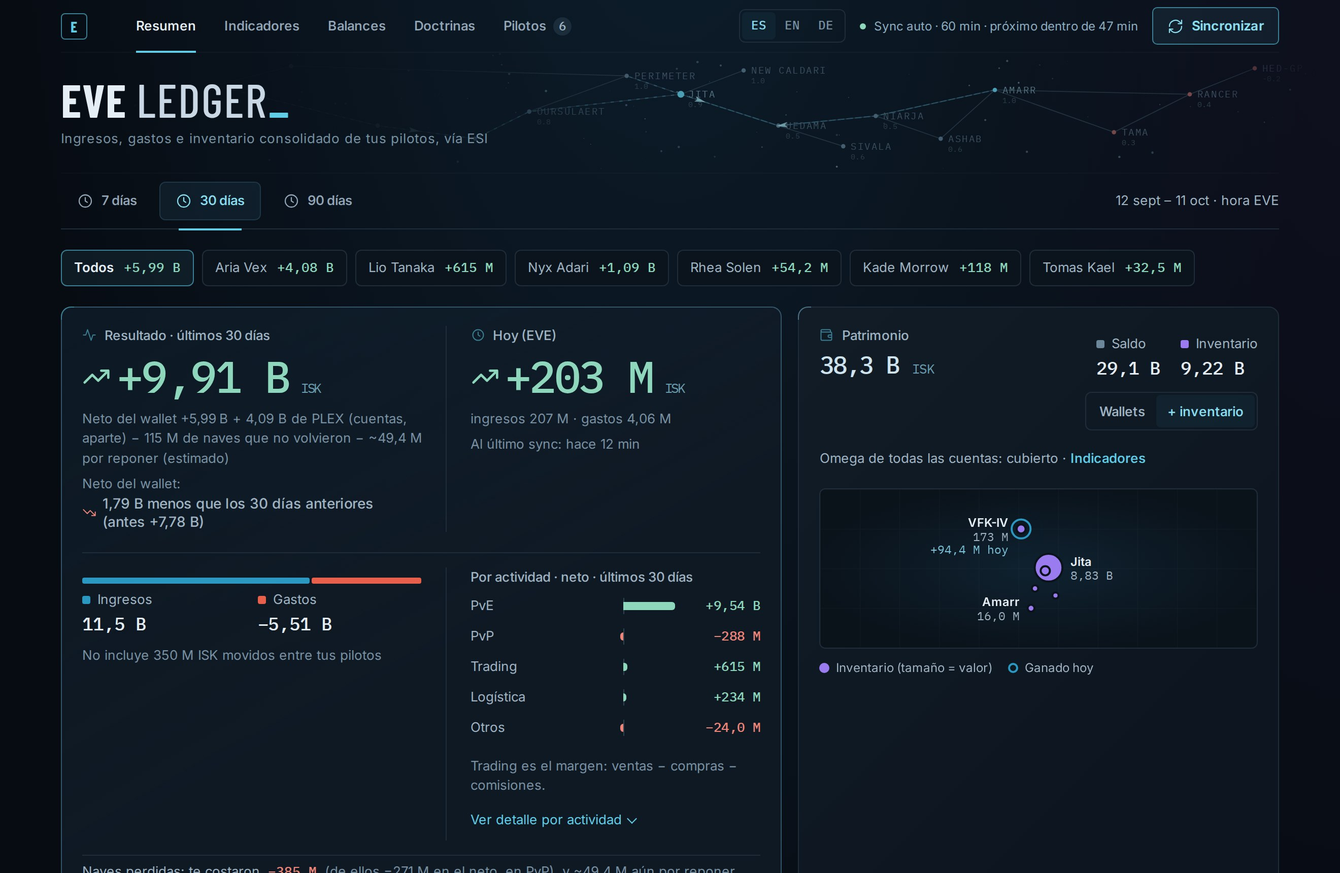
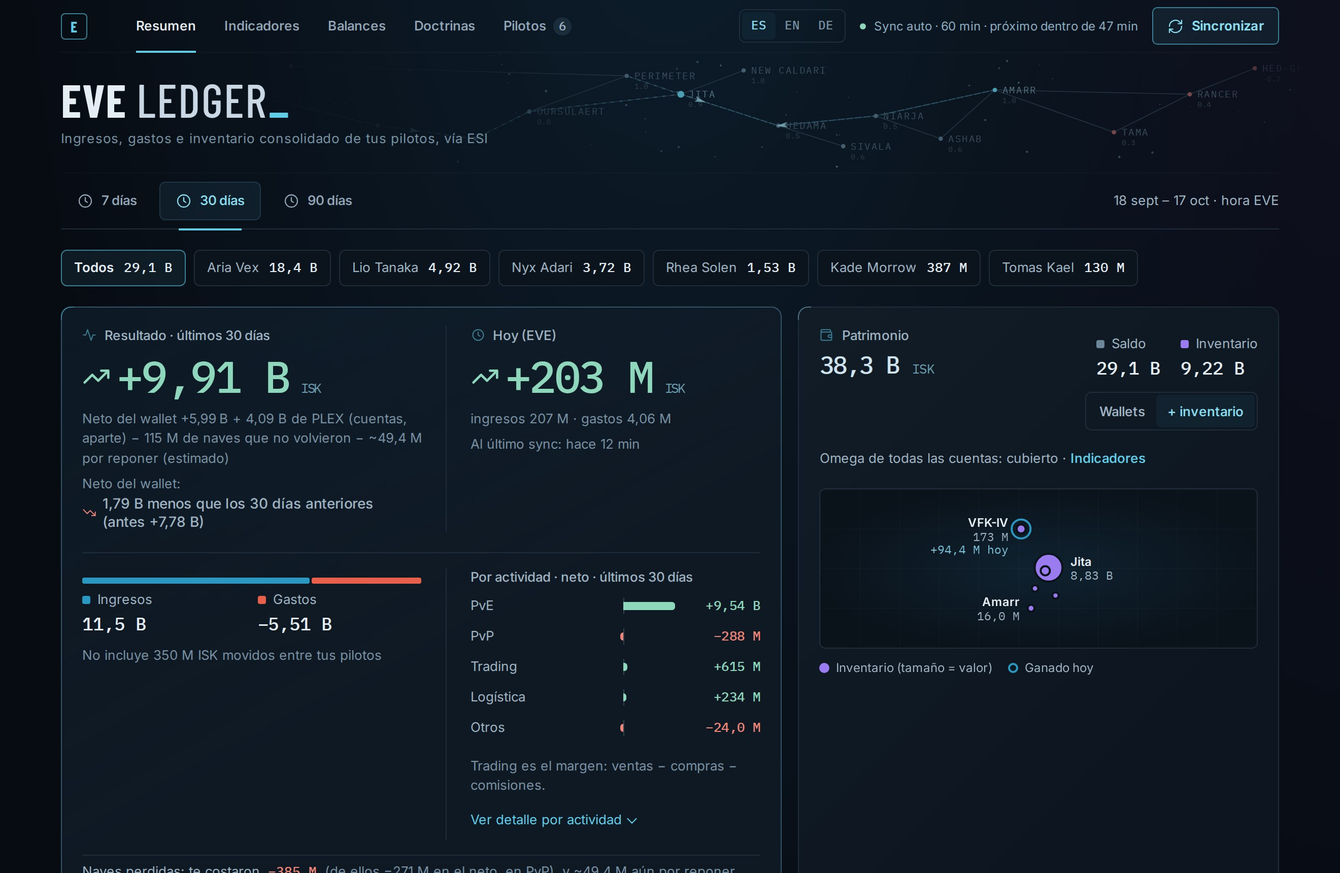
Summary: pilot chips show the wallet balance instead of the period net
The filter strip under the period tabs showed each pilot's net for the
period, which is already in the Net card and in the pilots table. It now
shows what each pilot has in the wallet (the ESI balance of the last sync,
or the journal's) and «Todos» the sum of the wallets, with no sign and no
green/red because it isn't a net. A pilot without a sync keeps «—» and
stale data is greyed with its age, as before. Titles and aria-labels say
«saldo»; the e2e suite checks the chips against /summary; the README and
brochure dashboard screenshots are regenerated with the demo data.

Claude-Session: https://claude.ai/code/session_01M8WtF2MrXeJVUAxf2xqCAQ

diff --git a/apps/web/src/lib/i18n.ts b/apps/web/src/lib/i18n.ts
@@ -475,7 +475,8 @@ const es = {
   noInventory: 'Sin inventario sincronizado',
   filterByPilot: 'Filtrar por piloto',
   allPilots: 'Todos',
-  allPilotsTitle: (v: string, days: number) => `Todos tus pilotos: neto ${v} en ${days} días`,
+  // The pilot strip shows the wallet balances (the period net is in the Net card and the pilots table)
+  allPilotsTitle: (v: string) => `Todos tus pilotos: saldo de los wallets ${v}`,
   netPeriodPilot: (name: string, days: number) => `Neto de ${name} · últimos ${days} días`,
   summaryH1Pilot: (name: string, days: number) => `Resumen de ${name}: últimos ${days} días`,
   // Result: the wallet net minus the net worth of lost ships that didn't come back or are still to replace
@@ -491,7 +492,7 @@ const es = {
   resultCompareOf: 'Neto del wallet:',
   resultCompareOfPilot: 'Neto en juego:',
   viewLedger: (name: string) => `Ver el ledger de ${name}`,
-  pilotNetTitle: (name: string, v: string, days: number) => `${name}: neto ${v} en ${days} días`,
+  pilotBalanceTitle: (name: string, v: string | null) => (v === null ? `${name}: sin primer sync` : `${name}: saldo del wallet ${v}`),
   noSyncSince: (ago: string) => ` · sin sync ${ago}`,
   dailyFlow: 'Flujo diario',
   byActivity: 'Por actividad',
@@ -647,8 +648,8 @@ const es = {
   invPlus: '+ inventario',
   omegaLine: (v: string) => `Omega de todas las cuentas: te faltan ${v}`,
   omegaLineCovered: 'Omega de todas las cuentas: cubierto',
-  chipLabel: (name: string, net: string | null, ago: string | null) =>
-    net === null ? `${name}, sin primer sync` : `${name}, ${net}${ago ? `, sin sync ${ago}` : ''}`,
+  chipLabel: (name: string, balance: string | null, ago: string | null) =>
+    balance === null ? `${name}, sin primer sync` : `${name}, saldo ${balance}${ago ? `, sin sync ${ago}` : ''}`,
   valuablePlex: 'Valorado con la media de ESI, también el PLEX (Indicadores usa su venta más baja).',
   notePrices: (ago: string) => ` (actualizado ${ago})`,
   noteBpc: '; las copias de blueprint cuentan como 0',
@@ -1300,7 +1301,7 @@ const en: Messages = {
   noInventory: 'No assets synced',
   filterByPilot: 'Filter by pilot',
   allPilots: 'All',
-  allPilotsTitle: (v, days) => `All your pilots: net ${v} in ${days} days`,
+  allPilotsTitle: (v) => `All your pilots: ${v} in the wallets`,
   netPeriodPilot: (name, days) => `${name} net · last ${days} days`,
   summaryH1Pilot: (name, days) => `${name}: overview of the last ${days} days`,
   result: 'Result',
@@ -1314,7 +1315,7 @@ const en: Messages = {
   resultCompareOf: 'Wallet net:',
   resultCompareOfPilot: 'In-game net:',
   viewLedger: (name) => `View ${name}'s ledger`,
-  pilotNetTitle: (name, v, days) => `${name}: net ${v} in ${days} days`,
+  pilotBalanceTitle: (name, v) => (v === null ? `${name}: no first sync` : `${name}: wallet balance ${v}`),
   noSyncSince: (ago) => ` · not synced ${ago}`,
   dailyFlow: 'Daily flow',
   byActivity: 'By activity',
@@ -1466,8 +1467,8 @@ const en: Messages = {
   invPlus: '+ assets',
   omegaLine: (v) => `Omega for all accounts: ${v} short`,
   omegaLineCovered: 'Omega for all accounts: covered',
-  chipLabel: (name, net, ago) =>
-    net === null ? `${name}, no first sync` : `${name}, ${net}${ago ? `, not synced ${ago}` : ''}`,
+  chipLabel: (name, balance, ago) =>
+    balance === null ? `${name}, no first sync` : `${name}, balance ${balance}${ago ? `, not synced ${ago}` : ''}`,
   valuablePlex: 'Valued at the ESI average, PLEX included (Indicators uses its lowest sell price).',
   notePrices: (ago) => ` (updated ${ago})`,
   noteBpc: '; blueprint copies count as 0',
@@ -2117,7 +2118,7 @@ const de: Messages = {
   noInventory: 'Kein Inventar synchronisiert',
   filterByPilot: 'Nach Pilot filtern',
   allPilots: 'Alle',
-  allPilotsTitle: (v, days) => `Alle deine Piloten: Netto ${v} in ${days} Tagen`,
+  allPilotsTitle: (v) => `Alle deine Piloten: Guthaben der Wallets ${v}`,
   netPeriodPilot: (name, days) => `Netto ${name} · letzte ${days} Tage`,
   summaryH1Pilot: (name, days) => `${name}: Übersicht der letzten ${days} Tage`,
   result: 'Ergebnis',
@@ -2131,7 +2132,7 @@ const de: Messages = {
   resultCompareOf: 'Wallet-Netto:',
   resultCompareOfPilot: 'Netto im Spiel:',
   viewLedger: (name) => `Ledger von ${name} anzeigen`,
-  pilotNetTitle: (name, v, days) => `${name}: netto ${v} in ${days} Tagen`,
+  pilotBalanceTitle: (name, v) => (v === null ? `${name}: noch kein erster Sync` : `${name}: Wallet-Guthaben ${v}`),
   noSyncSince: (ago) => ` · kein Sync ${ago}`,
   dailyFlow: 'Täglicher Fluss',
   byActivity: 'Nach Aktivität',
@@ -2283,8 +2284,8 @@ const de: Messages = {
   invPlus: '+ Inventar',
   omegaLine: (v) => `Omega für alle Accounts: es fehlen ${v}`,
   omegaLineCovered: 'Omega für alle Accounts: gedeckt',
-  chipLabel: (name, net, ago) =>
-    net === null ? `${name}, noch kein erster Sync` : `${name}, ${net}${ago ? `, kein Sync ${ago}` : ''}`,
+  chipLabel: (name, balance, ago) =>
+    balance === null ? `${name}, noch kein erster Sync` : `${name}, Guthaben ${balance}${ago ? `, kein Sync ${ago}` : ''}`,
   valuablePlex: 'Bewertet zum ESI-Durchschnitt, auch PLEX (Kennzahlen nutzt den niedrigsten Verkaufspreis).',
   notePrices: (ago) => ` (aktualisiert ${ago})`,
   noteBpc: '; Blaupausenkopien zählen als 0',

diff --git a/apps/web/e2e/flows.spec.ts b/apps/web/e2e/flows.spec.ts
@@ -135,6 +135,20 @@ test('el saldo es el del wallet de ESI y Balances concilia lo que el journal aú
   await expect(page.getByText(/va por delante del journal en Aria Vex/).first()).toBeAttached();
 });
 
+test('los chips de pilotos muestran el saldo del wallet, no el neto del período', async ({ page, request }) => {
+  const summary = await (await request.get(`${API_URL}/summary?days=30`)).json();
+  const aria = summary.characters.find((c: { id: number }) => c.id === PILOTS.aria.id);
+  const full = (v: number) => `${new Intl.NumberFormat('es', { minimumFractionDigits: 2, maximumFractionDigits: 2 }).format(v)} ISK`;
+  await page.goto('/?days=30');
+  const chip = page.locator('.pilot-strip a', { hasText: PILOTS.aria.name });
+  await expect(chip).toHaveAttribute('title', `${PILOTS.aria.name}: saldo del wallet ${full(aria.balance)}`);
+  await expect(chip).toHaveAttribute('aria-label', /^Aria Vex, saldo /);
+  // «Todos» is the sum of the wallets, and a pilot without a sync shows «—»
+  const all = summary.characters.reduce((n: number, c: { balance: number | null }) => n + (c.balance ?? 0), 0);
+  await expect(page.locator('.pilot-strip a').first()).toHaveAttribute('title', `Todos tus pilotos: saldo de los wallets ${full(all)}`);
+  await expect(page.locator('.pilot-strip a', { hasText: PILOTS.nyx.name }).locator('.pilot-balance')).toHaveText('—');
+});
+
 test('Descuentos: impuesto de corporación exacto y penalización de incursión estimada', async ({ page, request }) => {
   const { deductions: d } = await (await request.get(`${API_URL}/indicators`)).json();
   expect(d.byCorp[0].name).toBe('School of Applied Knowledge');

diff --git a/CLAUDE.md b/CLAUDE.md
@@ -32,12 +32,12 @@ Proyecto personal, corre solo en localhost. Responder siempre en español neutro
 - «Hoy» = desde las 00:00 EVE (UTC). La comparación con el período anterior solo se muestra si el historial lo cubre entero; los días anteriores al primer sync se muestran como «sin historial», no como cero.
 - Datos «desactualizados» cuando el último sync supera 2× el intervalo (2 h si el cron está apagado). El dashboard se recarga solo tras cada sync automático (`/status.json` en la web), pero solo si no tira la lectura (scroll arriba y ningún `<details>` abierto); si no, aparece el aviso «Hay datos nuevos · Actualizar». La frescura («Al último sync: hace 11 min», en ámbar si está vieja) va pegada a «Hoy», y bajo el filtro de pilotos una línea dice cuáles están sin sync reciente y por qué, con enlace a Pilotos.
 - Vinculación: `/auth/callback` no pinta HTML; redirige a `${WEB_URL}/pilotos?linked=ID` o `?error=denied|state|sso` (con `AUTH_DONE_PAGE=1`, que pone la app de escritorio, a `${WEB_URL}/vinculado?…`: página suelta, sin el dashboard, «PILOTO VINCULADO · Puedes cerrar esta página» o el error, en el idioma del navegador (`getRequestLang`); en éxito intenta `window.close()`, que el navegador solo permite si la pestaña la abrió un script). `GET /characters` redirige a esa página si el cliente pide `text/html` y devuelve JSON (con `missingScopes` y `lastError`) al resto. La web tiene layout común (`src/layouts/Base.astro`) con secciones Resumen / Indicadores / Balances / Doctrinas / Pilotos (por debajo de 1280 px van en una segunda fila de la cabecera, porque con cinco secciones el estado del sync y Sincronizar se salían por la derecha entre 751 y ~1180 px; en móvil sin el contador de pilotos y con 7 px de aire, para que quepan las cinco a 390 px; si no caben, la fila se desliza); las cifras abreviadas de ISK llevan espacio duro antes de la unidad (`isk()`: «6,41 B» no se parte); plazas de piloto según `PILOT_SLOTS` (5).
-- `/summary` excluye las transferencias internas (ambas partes son personajes vinculados **y distintos**: en una compra de mercado, `market_escrow`, ESI pone al propio comprador como primera y segunda parte, y es un gasto; bug que solo salió con datos reales): en el consolidado se anulan. Excepción: el `market_escrow` de una compra a **otro de tus pilotos** (su transacción enlazada por `journal_ref_id` tiene ese piloto como `client_id` y el mismo importe) también es interno, y la transferencia se deduplica por `transaction_id`, que comparten los dos lados (antes una compraventa entre tus pilotos daba −X en el consolidado y −2X en el comprador; índice `tx_char_journal_idx`, migración 0011). `internalReceived`/`internalSent` dan lo movido en los dos sentidos (la vista de un piloto dice «recibió X y envió Y»). El saldo por personaje es el **del wallet de ESI** (`GET /characters/{id}/wallet` en cada sync, `characters.wallet_balance`/`wallet_at`, migración 0016; escritorio 0.1.15, tras ver con datos reales que no coincidía con el juego: el journal llega con hasta 1 h de retraso y no tiene movimientos de un piloto que lleva más de 30 días sin mover ISK) y, sin él, el `balance` del último movimiento del journal; `journalBalance` es siempre el del journal y con él se concilia (saldo anterior + neto + entre tus pilotos): lo que el wallet lleva de más se dice aparte («Movimientos aún no en el journal» en Balances y una frase en la nota de la tabla de pilotos). Los ingresos, gastos y neto de `characters` excluyen también esas transferencias, así que **la suma de los pilotos es exactamente el consolidado** (`totals`): la tabla de pilotos del resumen («Pilotos · últimos N días») lo muestra con una fila Total (en móvil, una tarjeta Total; ingresos, gastos y neto van primero en cada tarjeta) y una nota que lo dice; la fila Total es siempre el consolidado, también en la vista de un piloto. **El neto de un piloto es lo ganado en juego** (decisión del usuario tras ver que Pilotos y el Resumen no cuadraban; sustituye la de la 0.1.7, en la que era lo que cambió su wallet): `characters[].net` = ingresos − gastos, y la suma de los pilotos es el consolidado. Lo movido con tus otros pilotos va aparte: `internalReceived`/`internalSent` (deducidos por transferencia (`journal_id`): basta uno de los dos lados, el signo dice quién paga, así cuadran también los movimientos de antes de la migración 0007) y `walletChange` = neto + recibido − enviado (saldo anterior + `walletChange` = saldo). La tabla es la conciliación del wallet: **Saldo anterior** (`openingBalance`: balance del último movimiento antes del período; si el historial empieza dentro, el del primer movimiento menos ese movimiento, `openingPartial` con `openingAt`) | Ingresos · Gastos · Neto · **Entre tus pilotos** (sin verde/rojo: cambia el wallet, pero no es neto) | Saldo · Inventario · Último sync, con la nota «Saldo anterior + Neto + Entre tus pilotos = Saldo» y, si en algún piloto no cuadra (≥ 1 ISK: movimientos que ESI ya no daba al primer sync), cuánto. Verificado con el export real: cuadra al céntimo en los 6 pilotos y en el Total. En la vista de un piloto, el neto titular («Neto en juego» en la frase del resultado), «Hoy», el período anterior, el neto de cada día del gráfico y los chips de la franja son sin lo movido con tus otros pilotos; la línea «No incluye lo movido con tus otros pilotos: recibió X y envió Y ISK · su wallet cambió +Z» lo dice (`daily[].internal` lleva lo movido de cada día, aparte). En Pilotos, «Neto 30 d» es ese mismo neto, con «−576 M entre tus pilotos» debajo en gris y el desglose en el `title`. El eje del gráfico diario cubre también el punto del neto.
+- `/summary` excluye las transferencias internas (ambas partes son personajes vinculados **y distintos**: en una compra de mercado, `market_escrow`, ESI pone al propio comprador como primera y segunda parte, y es un gasto; bug que solo salió con datos reales): en el consolidado se anulan. Excepción: el `market_escrow` de una compra a **otro de tus pilotos** (su transacción enlazada por `journal_ref_id` tiene ese piloto como `client_id` y el mismo importe) también es interno, y la transferencia se deduplica por `transaction_id`, que comparten los dos lados (antes una compraventa entre tus pilotos daba −X en el consolidado y −2X en el comprador; índice `tx_char_journal_idx`, migración 0011). `internalReceived`/`internalSent` dan lo movido en los dos sentidos (la vista de un piloto dice «recibió X y envió Y»). El saldo por personaje es el **del wallet de ESI** (`GET /characters/{id}/wallet` en cada sync, `characters.wallet_balance`/`wallet_at`, migración 0016; escritorio 0.1.15, tras ver con datos reales que no coincidía con el juego: el journal llega con hasta 1 h de retraso y no tiene movimientos de un piloto que lleva más de 30 días sin mover ISK) y, sin él, el `balance` del último movimiento del journal; `journalBalance` es siempre el del journal y con él se concilia (saldo anterior + neto + entre tus pilotos): lo que el wallet lleva de más se dice aparte («Movimientos aún no en el journal» en Balances y una frase en la nota de la tabla de pilotos). Los ingresos, gastos y neto de `characters` excluyen también esas transferencias, así que **la suma de los pilotos es exactamente el consolidado** (`totals`): la tabla de pilotos del resumen («Pilotos · últimos N días») lo muestra con una fila Total (en móvil, una tarjeta Total; ingresos, gastos y neto van primero en cada tarjeta) y una nota que lo dice; la fila Total es siempre el consolidado, también en la vista de un piloto. **El neto de un piloto es lo ganado en juego** (decisión del usuario tras ver que Pilotos y el Resumen no cuadraban; sustituye la de la 0.1.7, en la que era lo que cambió su wallet): `characters[].net` = ingresos − gastos, y la suma de los pilotos es el consolidado. Lo movido con tus otros pilotos va aparte: `internalReceived`/`internalSent` (deducidos por transferencia (`journal_id`): basta uno de los dos lados, el signo dice quién paga, así cuadran también los movimientos de antes de la migración 0007) y `walletChange` = neto + recibido − enviado (saldo anterior + `walletChange` = saldo). La tabla es la conciliación del wallet: **Saldo anterior** (`openingBalance`: balance del último movimiento antes del período; si el historial empieza dentro, el del primer movimiento menos ese movimiento, `openingPartial` con `openingAt`) | Ingresos · Gastos · Neto · **Entre tus pilotos** (sin verde/rojo: cambia el wallet, pero no es neto) | Saldo · Inventario · Último sync, con la nota «Saldo anterior + Neto + Entre tus pilotos = Saldo» y, si en algún piloto no cuadra (≥ 1 ISK: movimientos que ESI ya no daba al primer sync), cuánto. Verificado con el export real: cuadra al céntimo en los 6 pilotos y en el Total. En la vista de un piloto, el neto titular («Neto en juego» en la frase del resultado), «Hoy», el período anterior, el neto de cada día del gráfico son sin lo movido con tus otros pilotos; la línea «No incluye lo movido con tus otros pilotos: recibió X y envió Y ISK · su wallet cambió +Z» lo dice (`daily[].internal` lleva lo movido de cada día, aparte). En Pilotos, «Neto 30 d» es ese mismo neto, con «−576 M entre tus pilotos» debajo en gris y el desglose en el `title`. El eje del gráfico diario cubre también el punto del neto.
 - Actividades (`apps/api/src/lib/activities.ts`): cada `ref_type` se clasifica como PvE (recompensas, ESS, misiones y, por decisión del usuario, **escalaciones vendidas** —donación entrante de alguien que no es tu piloto por un múltiplo de 50 M— y **loot vendido** —`contract_price_payment_corp`, un contrato de intercambio que acepta una corporación: el buyback—; `refKindOf()` les da los tipos virtuales `escalation_sale` y `loot_buyback` para el detalle; las ventas de mercado de ítems no comprados no cuentan como loot), PvP (seguros, kill rights, guerras), trading (mercado, escrow, comisiones, impuestos, contratos de compraventa), **logística** (recompensas, reembolsos y garantías de courier, y la comisión `contract_brokers_fee` de un contrato que la tabla `contracts` conoce como courier; decisión del usuario) u otros (lo que no está en ninguna lista). Orden fijo: PvE, PvP, Trading, Logística, Otros, y **PLEX / cuentas** (`accounts`, decisión del usuario tras la decimosexta crítica: comprar o vender PLEX en el mercado, `market_transaction`/`market_escrow` cuya transacción es del tipo 44992, es el coste de las cuentas/Omega, no trading). `activityOf(refType, contextId)`; el detalle por `ref_type` agrupa también por actividad. `/summary` devuelve `byActivity` con brutos y detalle por `ref_type`.
 - **Resultado de juego** (tarjeta de Neto): neto del wallet − PLEX / cuentas (aparte) − naves que no volvieron − por reponer; la frase lo desglosa («Neto del wallet −13,4 B + 18,8 B de PLEX (cuentas, aparte) − 2,20 B de naves que no volvieron − ~424 M por reponer»). Las barras de actividades de la tarjeta no incluyen PLEX / cuentas: va en su propia línea al pie («PLEX / cuentas: −18,8 B · 3840 PLEX comprados · Omega en Indicadores»); el panel «Por actividad» sí la detalla. En el gráfico diario la parte de la barra que es PLEX va rayada (leyenda «PLEX (cuentas)», tooltip y `aria-label`). El ritmo del Omega (`dailyNetRate`) no cuenta el PLEX. Si un tipo de movimiento es ≥ 60 % de una actividad, su `title` lo nombra («sobre todo Donaciones»).
 - Ingresos y gastos son **brutos** en todo el resumen (totales, «Hoy», período anterior, gráfico diario y pilotos): toda compra de mercado es gasto y toda venta ingreso, para que lo gastado en ítems se vea. El margen del trading (ventas − compras − comisiones) solo aparece como neto de su fila en «Por actividad». (Antes se plegaba como margen en los totales; se descartó porque ocultaba las compras.) Las naves compradas en el mercado cuentan como trading, salvo las que reponen una nave perdida (PvP, ver «PvP con naves»).
 - Revisión de mercado (`market` en `/summary`, `marketReview()`): una tabla por ítem con vendido, comprado y neto (sin comisiones), plegada al final del resumen. Orden del resumen: filtro de pilotos → vistazo → gráfico → por actividad → tabla de pilotos → inventario → revisión de mercado.
-- Filtro por piloto: `?characterId=` opcional en `/summary`, `/inventory` y `/map` (404 si no está vinculado; `src/lib/pilot-filter.ts`). Las transferencias entre tus pilotos siguen sin contar también en la vista de un piloto; `characters` en `/summary` y `byCharacter` en `/inventory` vienen siempre completos. En la web es `/?pilot=ID`: la franja de pilotos bajo las pestañas de período es el filtro («Todos» + cada piloto con su neto) y las pestañas lo conservan; un enlace a un piloto desvinculado vuelve al consolidado.
+- Filtro por piloto: `?characterId=` opcional en `/summary`, `/inventory` y `/map` (404 si no está vinculado; `src/lib/pilot-filter.ts`). Las transferencias entre tus pilotos siguen sin contar también en la vista de un piloto; `characters` en `/summary` y `byCharacter` en `/inventory` vienen siempre completos. En la web es `/?pilot=ID`: la franja de pilotos bajo las pestañas de período es el filtro («Todos» con la suma de los saldos + cada piloto con el **saldo de su wallet** al último sync, `characters[].balance`, sin signo ni verde/rojo porque no es un neto; decisión del usuario, 0.1.19: antes mostraba el neto del período, que ya está en la tarjeta de Neto y en la tabla de pilotos; un piloto sin sync muestra «—» y uno con datos viejos, su saldo en gris con la edad) y las pestañas lo conservan; un enlace a un piloto desvinculado vuelve al consolidado.
 - Primer uso en el resumen: sin pilotos, `FirstRun.astro` (qué responde el ledger, tres pasos, aviso de los ~30 días de ESI y una sola acción: vincular; sin pestañas de período ni botón «Sincronizar»). Con pilotos pero sin ningún movimiento guardado (vista consolidada), `FirstSync.astro`: estado de cada piloto y recarga cada 15 s (máx. 2 min) mientras alguno hace su primer sync.
 - **Escritorio** (`apps/desktop`, decisión del usuario: compartir el ledger personal con la corp con un instalador de Tauri y configuración editable):
   - Tauri 2 lanza la API y la web como dos procesos de **Bun (sidecar `binaries/bun-<triple>`)**: `resources/server/api/api.js` (la API en un archivo) y `resources/server/web/server/entry.js` (Astro empaquetado sin `node_modules`; el adaptador busca `../client` subiendo hasta la carpeta `server`). Los dos pasan por `launch.js` (`scripts/launch.js`), que sale cuando se cierra su stdin: si la app muere, no quedan ocupando los puertos. Nada se ejecuta desde la carpeta de instalación: `install_server()` copia los recursos a la carpeta de datos local (`server/<versión-huella>`, borra las copias viejas), porque en Windows Bun daba «EPERM reading» en `C:\Program Files`; y las rutas «verbatim» de Windows (`\\?\C:\…`) se pasan sin el prefijo (`plain()`), que Bun no abre. La versión sube con cada instalador (MSI no actualiza encima de la misma versión).
@@ -81,9 +81,9 @@ Proyecto personal, corre solo en localhost. Responder siempre en español neutro
 - Sexta crítica (honestidad de los datos): la frescura de la tarjeta de Neto es la del piloto filtrado (`selected.lastSyncAt`), no la del sync más reciente de todos; si ese piloto está roto o viejo, la tarjeta se apaga (`.hero-stat.stale`, neto y actividades en gris) y la línea de frescura dice «Datos de hace 3 d» en ámbar (la causa y la acción están en la línea de salud). En consolidado dice cuántos están al día («2 de 4 pilotos al día · hace 12 min») en gris; ámbar solo si todo el ledger está viejo. El aviso global «Datos desactualizados» solo mira el sync más reciente de todos (`globalLastSync`). La línea de salud bajo el filtro es una por piloto con causa corta y acción inline (Revincular → login de EVE, Sincronizar → `POST /sync` del piloto, Revisar → Pilotos); en móvil es una línea por piloto. El chip «Sync automático desactivado» sigue en ámbar a propósito. En tarjetas < 520 px «Hoy» es una fila compacta (22 px) justo bajo el neto y la composición va después. La comparación con el período anterior va en texto neutro y solo la flecha lleva el signo.
 - Séptima crítica: un piloto filtrado **sin ningún sync** no pinta ceros: el vistazo, el gráfico, «Por actividad», el inventario y el mercado se sustituyen por `.empty-pilot` («Aún sin datos de X», causa, Sincronizar por POST y «Ver todos los pilotos»); solo queda la tabla de pilotos, sin marcar esa fila. Las acciones en línea (Sincronizar, Revincular, Revisar) usan una sola clase, `.inline-action` (enlace o botón, cian, sin subrayado, 40 px de zona táctil), y «Revincular» lleva `title`/`aria-label` «elige X en el login de EVE» (en Pilotos, además, la pista visible). Los chips de la franja de un piloto con problemas llevan solo el icono ámbar y la edad en gris (borde neutro): la causa está en la línea de salud, que en móvil es una línea por piloto con su acción. En móvil «Todos» queda fijo (`position: sticky`) a la izquierda de la franja y el borde derecho se desvanece. El bloque de actividades de la tarjeta se titula «Por actividad · neto» y lleva la nota visible «Trading es el margen: ventas − compras − comisiones»; las pistas de cada actividad y de «Hoy» también van en `sr-only`, y un neto de 0 se anuncia como «sin cambio», no como ganancia. Sin período anterior completo, la tarjeta dice desde cuándo hay historial («Historial desde el 19 ago: …»); en la vista de un piloto, las transferencias internas son «con tus otros pilotos». En el gráfico, un día sin movimientos deja una marca corta en el eje (`.zero-mark`), distinta de la franja rayada «sin historial». Etiquetas del mapa «tu New Eden» a 12 px.
 - Octava crítica (cobertura de las cifras agregadas): `CoverageNote.astro` cuantifica, bajo Patrimonio (consolidado) y bajo la ecuación de Omega (`walletOnly`), cuánto de la cifra viene de datos viejos, a quién deja fuera (sin primer sync) y de quién falta el inventario (scope de assets) (ver novena crítica: sin acciones). En «Todos», bajo el neto, una línea dice cuánto del neto viene de datos viejos; el neto no cambia de color. Un estado, un nombre: el token caducado es «Token caducado» en tarjeta, línea de salud y Pilotos, y «journal» se muestra como «wallet». En Pilotos el permiso que falta es texto visible y la insignia de error va en ámbar (el rojo queda para el neto negativo). «Sincronizar» de la cabecera es `.primary-button.outline` (el dato es lo más luminoso de la pantalla); los chips de piloto con problemas llevan un punto ámbar (`.stale-dot`), y «Pilotos» en la navegación, un punto ámbar con `pilotIssues`. `.inline-action` y `.sync-form.inline` viven en `theme.css`. Trampa HTML: un `<form>` dentro de un `<p>` cierra el párrafo; los contenedores con Sincronizar en línea son `<div>`. Sin ganancias hoy, el mapa bajo el inventario va plegado (`details.map-fold`, «Ver en el mapa»). La revisión de mercado concilia en su nota con el wallet («En el wallet: X de ventas y Y de compras de mercado», del `market_transaction` de `byActivity`). La ecuación de Omega tiene columna de operador (−, =) con valores en positivo.
-- Novena crítica (consolidar el ámbar: la honestidad se había vuelto ruido): **la causa y la acción de cada piloto viven solo en la línea de salud** bajo el filtro (también «falta el permiso de inventario → Revincular» para un piloto al día sin ese scope; `hasIssue()` en `pilot-state.ts` es lo que cuenta el punto de «Pilotos»). Todo lo demás solo cuantifica, en texto neutro con un icono ámbar pequeño: bajo el neto «−140 M de este neto vienen de datos de hace 3 d» (una línea, agregada; el detalle por piloto en el `title`), y `CoverageNote` «incluye 300 M ISK de datos de hace 3 d · sin Nyx Adari (sin primer sync)», con los importes que le pasa cada página (`amounts`: saldo + inventario en Patrimonio, solo saldo en Omega, de `balances` en `/indicators`). Sin icono en «Wallets». Vista de un piloto que no está al día: Patrimonio se apaga en gris y dice «Saldo de hace 3 d · inventario de hace 2 d (falta el permiso)» (la fecha del inventario es `byCharacter.updatedAt`); «Hoy» dice «Sin datos de hoy» si su último sync es de antes de hoy; el gráfico se desatura (`.chart-stale`) y los días posteriores a su último sync van rayados como «Sin sync» (`lastDate` en `DailyChart`, igual que `firstDate` con «Sin historial»). En la navegación el punto ámbar va pegado a la palabra «Pilotos» (no al contador) y el enlace tiene `aria-label` «Pilotos: 4 vinculados, 2 necesitan atención». En Pilotos, «Revincular» usa el icono `login` (distinto de refresh) y las notas (`.since`, `.when`, `.error-msg`, `.hint`) van a 13 px con colores de los tokens. En móvil, el chip activo de la franja se coloca justo tras «Todos» (si es de los últimos, se alarga el final de la fila) para que ningún chip asome a medias sin su signo. Las edades relativas de las notas llevan espacios duros («hace 3 d» no se parte). Etiquetas de `kill_right_fee`, `war_fee` y demás ref_types de PvP/contratos en `format.ts`.
+- Novena crítica (consolidar el ámbar: la honestidad se había vuelto ruido): **la causa y la acción de cada piloto viven solo en la línea de salud** bajo el filtro (también «falta el permiso de inventario → Revincular» para un piloto al día sin ese scope; `hasIssue()` en `pilot-state.ts` es lo que cuenta el punto de «Pilotos»). Todo lo demás solo cuantifica, en texto neutro con un icono ámbar pequeño: bajo el neto «−140 M de este neto vienen de datos de hace 3 d» (una línea, agregada; el detalle por piloto en el `title`), y `CoverageNote` «incluye 300 M ISK de datos de hace 3 d · sin Nyx Adari (sin primer sync)», con los importes que le pasa cada página (`amounts`: saldo + inventario en Patrimonio, solo saldo en Omega, de `balances` en `/indicators`). Sin icono en «Wallets». Vista de un piloto que no está al día: Patrimonio se apaga en gris y dice «Saldo de hace 3 d · inventario de hace 2 d (falta el permiso)» (la fecha del inventario es `byCharacter.updatedAt`); «Hoy» dice «Sin datos de hoy» si su último sync es de antes de hoy; el gráfico se desatura (`.chart-stale`) y los días posteriores a su último sync van rayados como «Sin sync» (`lastDate` en `DailyChart`, igual que `firstDate` con «Sin historial»). En la navegación el punto ámbar va pegado a la palabra «Pilotos» (no al contador) y el enlace tiene `aria-label` «Pilotos: 4 vinculados, 2 necesitan atención». En Pilotos, «Revincular» usa el icono `login` (distinto de refresh) y las notas (`.since`, `.when`, `.error-msg`, `.hint`) van a 13 px con colores de los tokens. En móvil, el chip activo de la franja se coloca justo tras «Todos» (si es de los últimos, se alarga el final de la fila) para que ningún chip asome a medias con la cifra cortada. Las edades relativas de las notas llevan espacios duros («hace 3 d» no se parte). Etiquetas de `kill_right_fee`, `war_fee` y demás ref_types de PvP/contratos en `format.ts`.
 - Patrimonio **solo wallets por defecto** (el wallet es lo que paga el Omega): «Saldo de los wallets». El conmutador «Wallets | + inventario» va en la propia tarjeta (formulario GET a `/inv?to=0|1&back=…`, botones con `aria-pressed`) y la elección se guarda en la cookie `inv` (`src/lib/inventory-pref.ts`); `?inv=1`/`?inv=0` en la URL manda para esa vista y los enlaces lo conservan. Sin inventario: no se piden `/inventory` ni `/map`, la tabla de pilotos pierde la columna Inventario y desaparecen las secciones de inventario y mapa. El neto, «Hoy», el gráfico y las actividades no cambian: son movimientos de wallet. Bajo el saldo, en el consolidado, una línea «Omega de todas las cuentas: te faltan X · Indicadores» (o «cubierto») con el mismo cálculo que Indicadores (`GET /indicators`).
-- Décima crítica (27/40): tabla de pilotos en el orden de las tarjetas móviles (Ingresos · Gastos · Neto | Saldo · Inventario · Último sync, con una línea entre período y «ahora», `.now-start`); el Total se etiqueta «Total · 4 pilotos (3 con datos)» y, en la vista de un piloto, «Total · todos tus pilotos» con su nota («Arriba ves solo a X; el Total es el consolidado…»); notas cortas con `max-width` («fila»/«tarjeta» según el ancho). Los filtros (pestañas de período y chips de piloto) usan `aria-current="true"` (`page` solo en la navegación de secciones) y cada chip tiene `aria-label` compuesto («Lio Tanaka, −145 M, sin sync hace 4 d»). La antigüedad de los precios del inventario es frescura (icono ámbar si superan el umbral + 1 h), «Lo más valioso» dice que también el PLEX va a la media de ESI, y los `title` de netos llevan «+» (`iskFull(v, lang, true)`).
+- Décima crítica (27/40): tabla de pilotos en el orden de las tarjetas móviles (Ingresos · Gastos · Neto | Saldo · Inventario · Último sync, con una línea entre período y «ahora», `.now-start`); el Total se etiqueta «Total · 4 pilotos (3 con datos)» y, en la vista de un piloto, «Total · todos tus pilotos» con su nota («Arriba ves solo a X; el Total es el consolidado…»); notas cortas con `max-width` («fila»/«tarjeta» según el ancho). Los filtros (pestañas de período y chips de piloto) usan `aria-current="true"` (`page` solo en la navegación de secciones) y cada chip tiene `aria-label` compuesto («Lio Tanaka, saldo 1,45 B, sin sync hace 4 d»). La antigüedad de los precios del inventario es frescura (icono ámbar si superan el umbral + 1 h), «Lo más valioso» dice que también el PLEX va a la media de ESI, y los `title` de netos llevan «+» (`iskFull(v, lang, true)`).
 - Críticas: la decimoquinta (27/40) fue la última sobre datos de demostración. La **decimosexta (26/40) fue la primera con el export real** (anonimizado, 6 pilotos: «Piloto 1…6»; se importa con `bun run import:debug` en el scratchpad) y está aplicada entera. Hallazgos de datos reales: compras como `market_escrow`, PK del journal compartida, PLEX del Omega, reposición con módulos equivalentes, pérdidas anteriores al historial. ESI no es accesible desde el entorno de Claude: los grupos de mercado se probaron con valores de prueba. Con más pilotos que `PILOT_SLOTS`, Pilotos dice «6 vinculados» (no «6 de 5»).
 
 ## Esquema (`src/db/schema.ts`)

diff --git a/docs/design-system-prompt.md b/docs/design-system-prompt.md
@@ -95,7 +95,7 @@ Validados en contraste sobre `--panel`. No los reutilices como colores de botone
 - **Barra superior:** 52 px; marca compacta (cuadrado de 26 px con «E» en Barlow y borde `--cyan-dim`), estado del sync (punto de 6 px: verde al día, ámbar desactivado, cian latiendo mientras sincroniza), selector ES/EN/DE y botón Sincronizar.
 - **Franja de marca:** 118 px (92 px en móvil) con el logotipo sobre un mapa estelar decorativo. Nunca empuja el neto fuera de la primera pantalla.
 - **Navegación de secciones:** pestañas de 13 px 550, texto `#93a6b7`. La activa lleva fondo `#16304070`, texto `#8addee`, borde `#30506480` y una línea inferior de 2 px en cian; `aria-current="page"`.
-- **Filtros** (pestañas de período, chips de piloto): `aria-current="true"`. Cada chip lleva el nombre y su neto con signo; un piloto con problemas lleva solo un icono ámbar pequeño y la edad en gris, con borde neutro.
+- **Filtros** (pestañas de período, chips de piloto): `aria-current="true"`. Cada chip lleva el nombre y el saldo de su wallet (sin signo ni color: no es un neto); un piloto con problemas lleva solo un icono ámbar pequeño y la edad en gris, con borde neutro.
 - **Botones:**
   - principal: fondo `#60c8e0`, texto `#06202b`, 13 px 650, padding 8 × 14 px, radio 5 px;
   - principal en contorno (`.outline`, el habitual en la cabecera para que el dato brille más): fondo `#61cce514`, borde `--cyan-dim`, texto `#8addee`;
@@ -154,7 +154,7 @@ Nada decorativo imita un dato. Transiciones de color de 0,18 s en botones y enla
 - Enlace «Saltar al contenido» como primera parada de Tab.
 - Las pistas que solo dan el color o la posición (signo, operadores «más»/«menos», estado) van también en texto `sr-only`. Un neto de 0 se anuncia como «sin cambio».
 - Contraste AA sobre `--panel`; nada por debajo de 12 px.
-- Etiquetas `aria-label` compuestas en los chips («Lio Tanaka, −145 M, sin sync hace 4 d»).
+- Etiquetas `aria-label` compuestas en los chips («Lio Tanaka, saldo 1,45 B, sin sync hace 4 d»).
 
 ## 11. Voz y textos
 

diff --git a/docs/design-system-prompt.en.md b/docs/design-system-prompt.en.md
@@ -93,7 +93,7 @@ Contrast-checked against `--panel`. Do not reuse them for buttons, borders or in
 - **Top bar:** 52 px; compact mark (26 px square with an "E" in Barlow and a `--cyan-dim` border), sync status (6 px dot: green when up to date, amber when turned off, pulsing cyan while syncing), ES/EN/DE switcher and the Sync button.
 - **Brand strip:** 118 px (92 px on mobile) with the wordmark over a decorative star map. It never pushes the net below the first screen.
 - **Section navigation:** 13 px tabs at weight 550, text `#93a6b7`. The active one has background `#16304070`, text `#8addee`, border `#30506480` and a 2 px cyan bottom line; `aria-current="page"`.
-- **Filters** (period tabs, pilot chips): `aria-current="true"`. Each chip shows the pilot's name and their signed net; a pilot with issues shows only a small amber icon and the data age in grey, with a neutral border.
+- **Filters** (period tabs, pilot chips): `aria-current="true"`. Each chip shows the pilot's name and their wallet balance (no sign, no colour: it isn't a net); a pilot with issues shows only a small amber icon and the data age in grey, with a neutral border.
 - **Buttons:**
   - primary: background `#60c8e0`, text `#06202b`, 13 px 650, 8 × 14 px padding, 5 px radius;
   - outlined primary (`.outline`, the usual one in the header so the data stays brighter): background `#61cce514`, border `--cyan-dim`, text `#8addee`;
@@ -152,7 +152,7 @@ Nothing decorative imitates data. 0.18 s colour transitions on buttons and links
 - A "Skip to content" link as the first Tab stop.
 - Cues conveyed only by colour or position (sign, "plus"/"minus" operators, state) are also given as `sr-only` text. A net of 0 is announced as "no change".
 - AA contrast against `--panel`; nothing below 12 px.
-- Composite `aria-label`s on chips ("Lio Tanaka, −145 M, no sync for 4 d").
+- Composite `aria-label`s on chips ("Lio Tanaka, balance 1.45 B, no sync for 4 d").
 
 ## 11. Voice and copy
 

diff --git a/CHANGELOG.md b/CHANGELOG.md
@@ -4,6 +4,10 @@ What changed in each version of the EVE Ledger desktop app. Every version is a [
 
 When a new version changes the database, the app first saves a copy of it as an `update` backup (**Pilots → Backups**), so you can always go back.
 
+## Unreleased
+
+- **Summary: the pilot chips show the wallet balance.** The filter strip under the period tabs now shows what each pilot has in the wallet (and "All", the sum of the wallets), instead of the period net, which is already in the Net card and in the pilots table. A pilot without a sync shows "—"; stale data is greyed with its age, as before.
+
 ## 0.1.18 — 2026-10-16
 
 - **Faster with a long history.** With a year of data from a busy trader (100,000 wallet entries), the Summary loads in about 0.25 s instead of 0.7–1.7 s, and Indicators in 0.2 s instead of 1.4 s. Lost ships are worked out once and shared by the Summary, Lost ships and Indicators until something changes.
